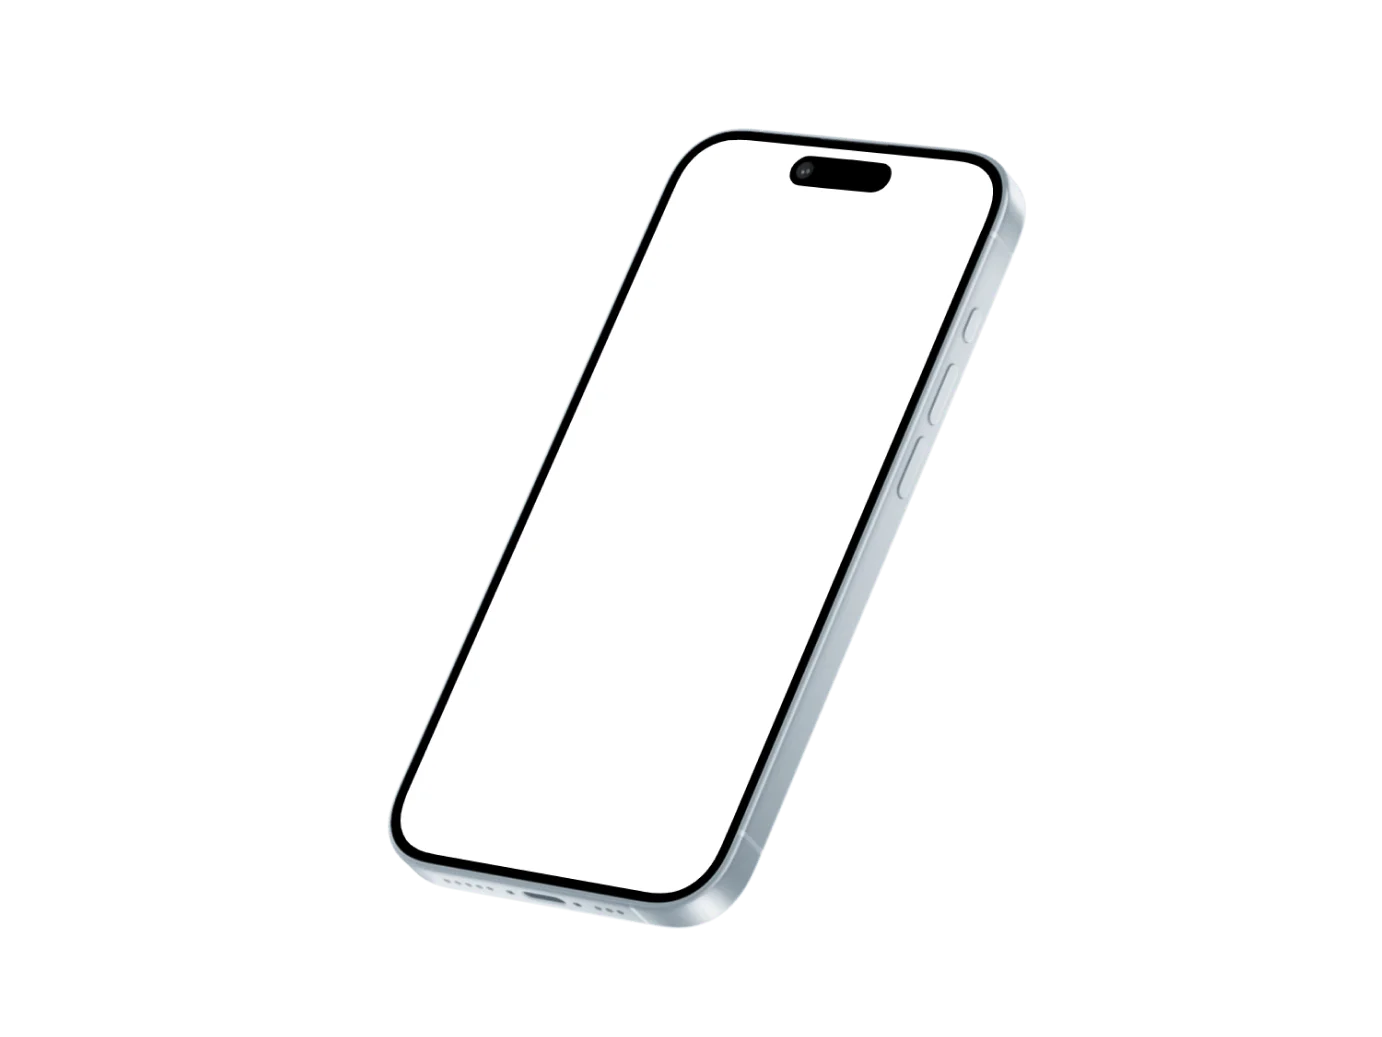
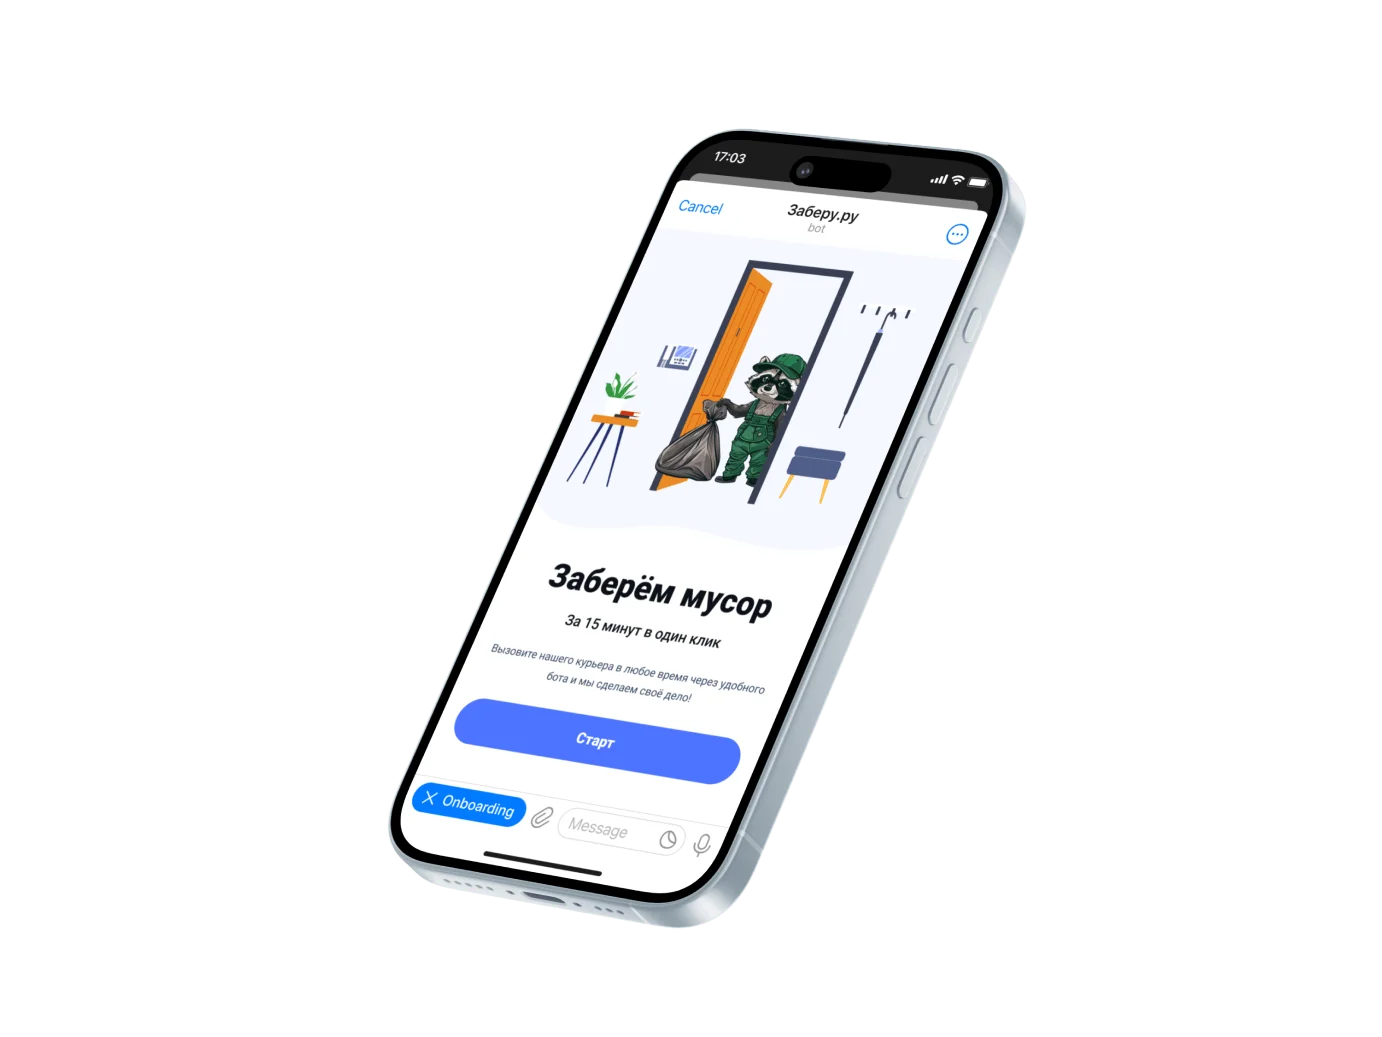
Блок

diff --git a/pages/index.vue b/pages/index.vue
@@ -22,6 +22,7 @@
           <img class="main-works__block-image" loading="lazy" src="@/assets/svg/trash.svg" alt="trash">
         </div>
       </div>
+      <img class="main-works__iphone w-100" loading="lazy" src="@/assets/images/iphone-mob.webp" />
       <div class="mt-96 main-works__steps position-relative">
         <div class="d-flex gap-32">
           <div class="main-works__steps-number title-20-med white-color">
@@ -237,6 +238,16 @@
       }
     }
 
+    &__iphone {
+      @include up-breakpoint(xl) {
+        display: none;
+      }
+
+      @include breakpoint(xl) {
+        margin-top: 144px;
+      }
+    }
+
     &__steps {
       background: $white-color;
       padding: 64px 48px;
@@ -244,6 +255,7 @@
 
       @include breakpoint(xl) {
         padding: 48px 20px;
+        margin-top: 0 !important;
 
         .gap-32 {
           gap: 24px;
